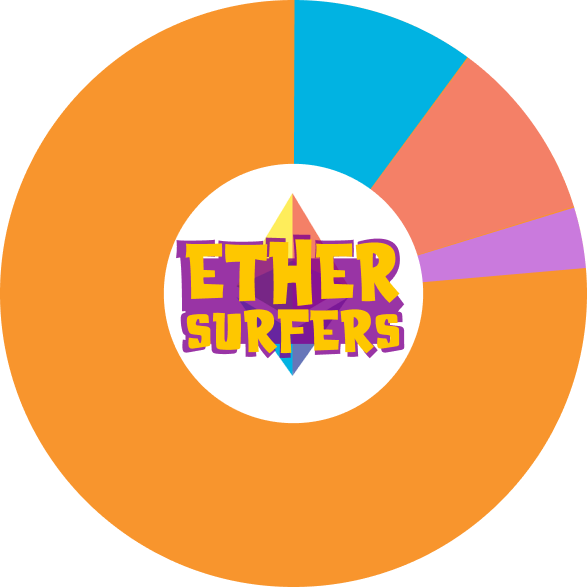
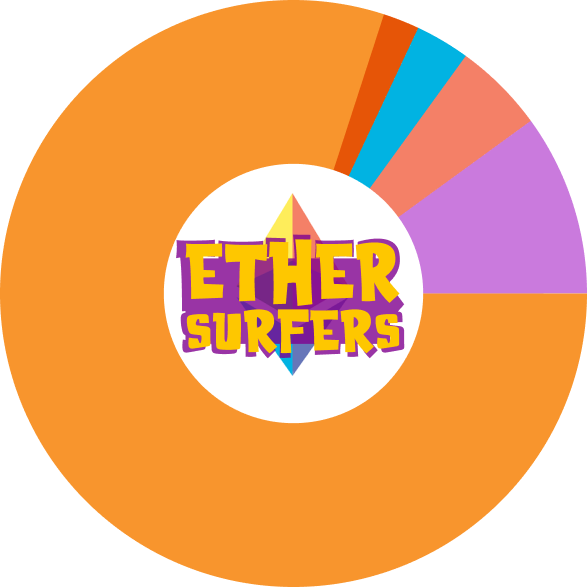
Ad

diff --git a/index.html b/index.html
@@ -89,9 +89,10 @@
                                 Leaderboards Today!</p>
                             <button class="btn btn-light mt-3 mark-btn" style="color: #79007E">Telegram<span
                                     class="pull-right"><i class="fa fa-arrow-right"></i></span></button><br />
-                            <a href="https://play.google.com/store/apps/details?id=com.EtherSurferLeaderBoard" target="_blank">
+                            <a href="https://play.google.com/store/apps/details?id=com.EtherSurferLeaderBoard"
+                                target="_blank">
                                 <button class="btn btn-warning mt-3 mark-btn">Download Now<span class="pull-right"><i
-                                    class="fa fa-arrow-right"></i></span></button><br />
+                                            class="fa fa-arrow-right"></i></span></button><br />
                             </a>
                         </div>
                     </div>
@@ -314,40 +315,90 @@
         <div class="container">
             <h1 class="sec-head text-white">Tokenomics</h1>
             <div class="row">
-                <div class="col-lg-3 col-md-3 d-flex align-items-center">
+                <div class="col-lg-3 col-md-3 d-flex align-items-center justify-content-center">
                     <div>
-                        <div>
-                            <h3 class="totalSupply">Total Supply</h3>
-                            <h4 class="tokenAmount">1,000,000,000</h4>
-                        </div>
-                        <div class = "mt-5">
-                            <h3 class="totalSupply">Total Supply</h3>
-                            <h4 class="tokenAmount">1,000,000,000</h4>
-                        </div>
+
+                        <h3 class="tokeDesc">Liquidity Pool (80%): 800 million tokens are designated for the liquidity
+                            pool, which supports the game’s economy and ensures there is always a market for buying and
+                            selling SURFER tokens.
+                            Staking Rewards (10%): 100 million tokens are reserved for staking rewards, offering players
+                            the opportunity to earn passive income by staking their tokens within the game.
+                            Beta Testers and Giveaways (5%): 50 million tokens are allocated to early supporters who
+                            participate in beta testing and to promotional giveaways, creating initial engagement and
+                            fostering a dedicated community.
+                            Centralized Exchange Listings and Market Making (3%): 30 million tokens will facilitate the
+                            listing of SURFER tokens on centralized exchanges and provide liquidity, ensuring a stable
+                            market for new and existing players.
+                            Team and Advisors (2%): 20 million tokens are set aside for the team and advisors, locked
+                            for a period to align their interests with the long-term success of the project.</h3>
+
+
+
                     </div>
                 </div>
-                <div class="col-lg-6 col-md-6">
-                    <img src="./assets/img/Tokenomics.svg" class="img-fluid mt-5" alt=""></a>
+                <div class="col-lg-6 col-md-6 d-flex justify-content-center align-items-center">
+                    <img src="./assets/img/Ellipse 11.png" class="img-fluid" alt=""></a>
 
                 </div>
-                <div class="col-lg-3 col-md-3 d-flex align-items-center">
+                <div class="col-lg-3 col-md-3 d-flex align-items-center justify-content-center">
                     <div>
                         <div class="toke-item">
-                            <h3 class="totalSupply">Total Supply</h3>
-                            <h4 class="tokenAmount">1,000,000,000</h4>
+                            <div class="d-flex">
+                                <div class="d-flex justify-content-center pr-3">
+                                    <span class="tokeDot mt-2" style = "background: #F8952D"></span>
+                                </div>
+                                <div style="flex: 1">
+                                    <h3 class="totalSupply">Liquidity Pool (80%)</h3>
+                                    <h4 class="tokenAmount">800 million</h4>
+                                </div>
+                            </div>
                         </div>
                         <div class="toke-item">
-                            <h3 class="totalSupply">Total Supply</h3>
-                            <h4 class="tokenAmount">1,000,000,000</h4>
+                            <div class="d-flex">
+                                <div class="d-flex justify-content-center pr-3">
+                                    <span class="tokeDot mt-2" style = "background: #01B3E2"></span>
+                                </div>
+                                <div style="flex: 1">
+                                    <h3 class="totalSupply">Staking Rewards (10%)</h3>
+                                    <h4 class="tokenAmount">100 million</h4>
+                                </div>
+                            </div>
                         </div>
                         <div class="toke-item">
-                            <h3 class="totalSupply">Total Supply</h3>
-                            <h4 class="tokenAmount">1,000,000,000</h4>
+                            <div class="d-flex">
+                                <div class="d-flex justify-content-center pr-3">
+                                    <span class="tokeDot mt-2" style = "background: #F48067"></span>
+                                </div>
+                                <div style="flex: 1">
+                                    <h3 class="totalSupply">Beta Testers and Giveaways (5%)</h3>
+                                    <h4 class="tokenAmount">50 million</h4>
+                                </div>
+                            </div>
                         </div>
 
                         <div class="toke-item">
-                            <h3 class="totalSupply">Total Supply</h3>
-                            <h4 class="tokenAmount">1,000,000,000</h4>
+                            <div class="d-flex">
+                                <div class="d-flex justify-content-center pr-3">
+                                    <span class="tokeDot mt-2" style = "background: #CA7ADD"></span>
+                                </div>
+                                <div style="flex: 1">
+                                    <h3 class="totalSupply">Centralised Exchange
+                                        Listings and Market Making (3%)</h3>
+                                    <h4 class="tokenAmount">30 million</h4>
+                                </div>
+                            </div>
+                        </div>
+
+                        <div class="toke-item">
+                            <div class="d-flex">
+                                <div class="d-flex justify-content-center pr-3">
+                                    <span class="tokeDot mt-2" style = "background: #01B3E2"></span>
+                                </div>
+                                <div style="flex: 1">
+                                    <h3 class="totalSupply">Team & Advisors (2%)</h3>
+                                    <h4 class="tokenAmount">20 million</h4>
+                                </div>
+                            </div>
                         </div>
                     </div>
                 </div>
@@ -380,7 +431,7 @@
             </div>
             <hr>
             <div class="px-4" style="display: flex; justify-content: space-between;">
-                <img src="./assets/img/logo.png" class = "mr-2" style="width: 50px; height: auto;" alt="">
+                <img src="./assets/img/logo.png" class="mr-2" style="width: 50px; height: auto;" alt="">
                 <span>&copy; Ether Surfers. All rights reserved</span>
             </div>
         </div>

diff --git a/assets/css/style.css b/assets/css/style.css
@@ -282,8 +282,16 @@ section {
 
 
 .toke-item {
-    margin-top: 50px;
+    margin-top: 20px;
 }
+
+.tokeDot {
+    height: 25px;
+    width: 25px;
+    background-color: #bbb;
+    border-radius: 50%;
+    display: inline-block;
+  }
 
 .totalSupply {
     font-family: Tricky;
@@ -295,14 +303,23 @@ section {
     color: #FEC700;
 }
 
+.tokeDesc {
+    font-family: Tricky;
+    font-size: 20px;
+    font-weight: 400;
+    letter-spacing: 0em;
+    text-align: left;
+    color: #FEC700;
+}
+
 .tokenAmount {
     font-family: 'Montserrat', sans-serif;
-    font-size: 32px;
-    font-weight: 600;
+    font-size: 23px;
+    font-weight: 300;
     line-height: 23px;
     letter-spacing: 0em;
     text-align: left;
-    color: #fff;
+    color: #eee;
 }
 
 .wavey-img {
